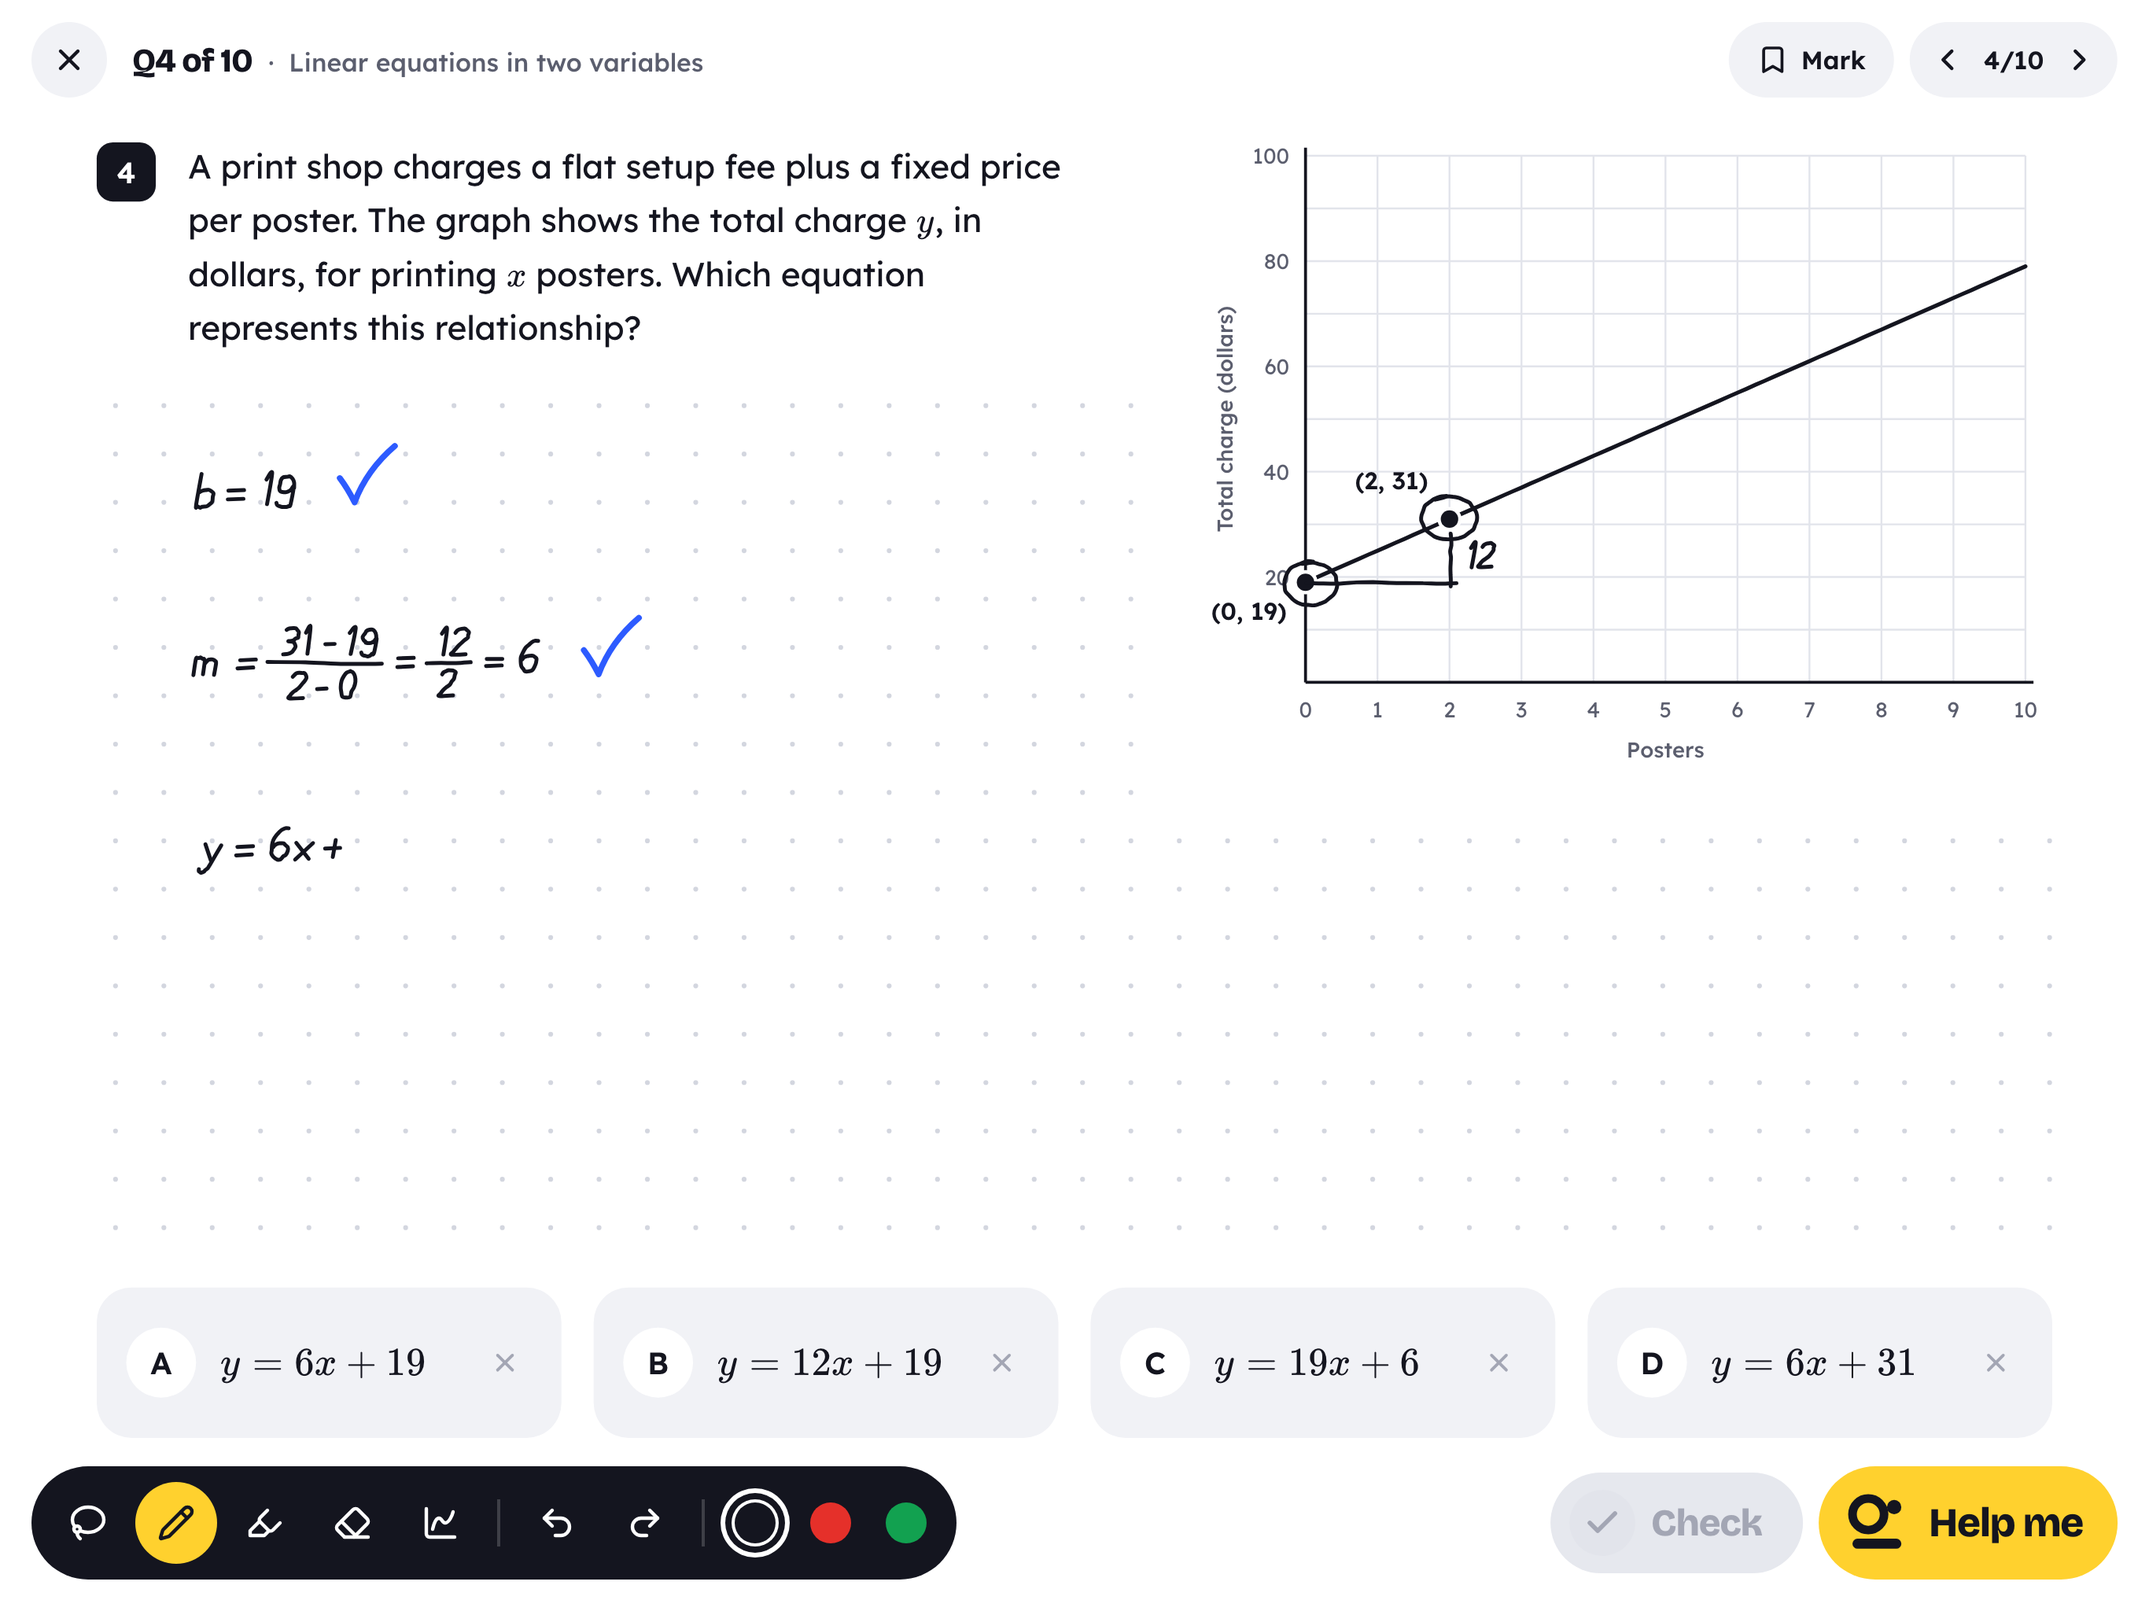
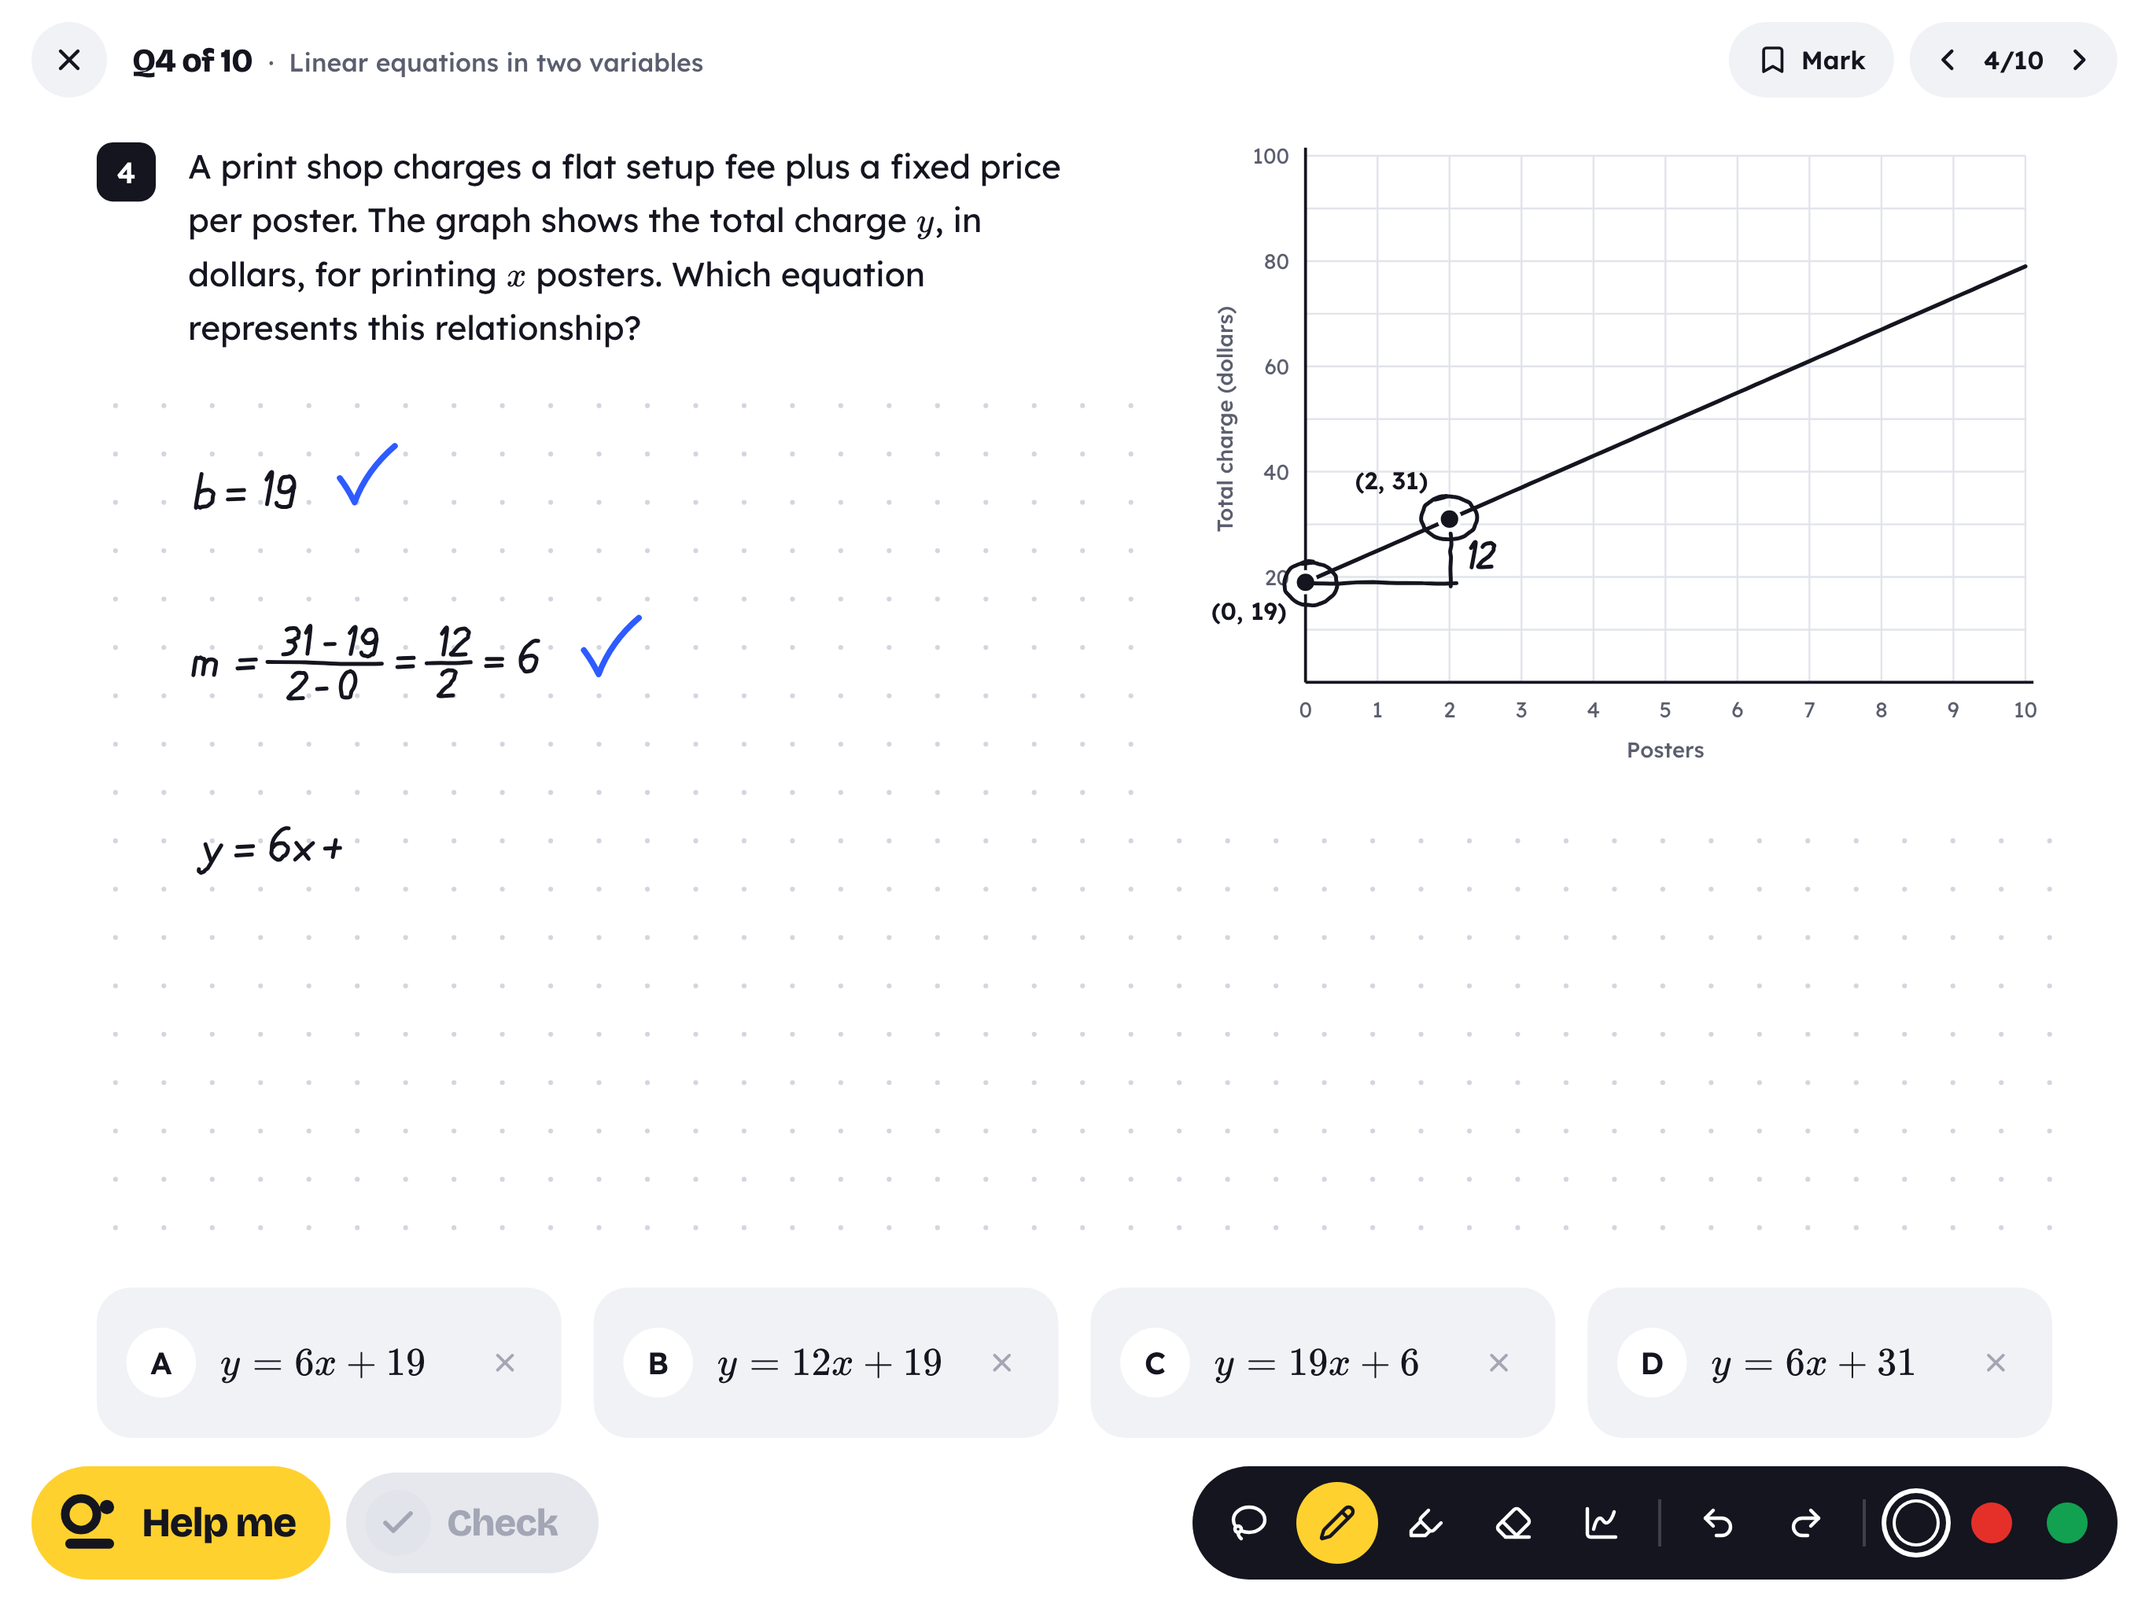
docs(sat2): Help me and Check at the bottom left, the pen dock at the bottom right (owner)
The walk-through pill takes Check's place beside Help me; the capped one-time ladder card
is now a wide strip just above Help me. DESIGN-NOTES.md updated.

Changed region(s): [[0.5289, 0.9062, 0.9956, 1.0], [0.0, 0.9062, 0.4667, 1.0]]

diff --git a/docs/sat2/mockups.html b/docs/sat2/mockups.html
@@ -382,15 +382,18 @@ function topBar({ q = 4, n = 10, skill = "Linear equations in two variables", ma
       w - 20, 14, "transform:translateX(-100%);display:flex;gap:10px;align-items:center");
 }
 function dock({ w = 1366, h = 1024, rung = 0, check = "off", walk = null, tool = "pencil" } = {}) {
+  // Bottom row (owner, 2026-10-23): Help me then Check (or the walk-through pill) at the bottom
+  // LEFT, the pen dock at the bottom RIGHT, nothing in between.
   const t = (n) => `<div class="tool ${tool === n ? "on" : ""}">${icon(n, 24, 2.2)}</div>`;
-  put(`<div class="dock">${t("lasso")}${t("pencil")}${t("highlighter")}${t("eraser")}${t("chart-spline")}<div class="sep"></div>
+  const pens = `<div class="dock">${t("lasso")}${t("pencil")}${t("highlighter")}${t("eraser")}${t("chart-spline")}<div class="sep"></div>
        <div class="tool">${icon("undo-2", 24, 2.2)}</div><div class="tool">${icon("redo-2", 24, 2.2)}</div><div class="sep"></div>
-       <div class="sw on"><i style="background:#14151F;box-shadow:0 0 0 2px #fff"></i></div><div class="sw"><i style="background:#E5302A"></i></div><div class="sw"><i style="background:#12A150"></i></div></div>`, 20, h - 20 - 72);
+       <div class="sw on"><i style="background:#14151F;box-shadow:0 0 0 2px #fff"></i></div><div class="sw"><i style="background:#E5302A"></i></div><div class="sw"><i style="background:#12A150"></i></div></div>`;
   const pips = [1, 2, 3].map((i) => `<i class="${i <= rung ? "on" : ""}"></i>`).join("");
-  const right = walk ? `<div class="walk"><span class="pp">${[1, 2, 3].map((i) => `<i class="${i <= walk ? "on" : ""}"></i>`).join("")}</span>Step ${walk} of 3 · Tap to go on${icon("arrow-right", 22, 2.4)}</div>`
+  const mid = walk ? `<div class="walk"><span class="pp">${[1, 2, 3].map((i) => `<i class="${i <= walk ? "on" : ""}"></i>`).join("")}</span>Step ${walk} of 3 · Tap to go on${icon("arrow-right", 22, 2.4)}</div>`
     : `<div class="check ${check === "off" ? "off" : ""}"><span class="bd">${icon("check", 24, 2.8)}</span>Check</div>`;
-  put(`${right}<div class="helpme"><svg width="42" height="42" viewBox="0 0 46 46"><circle cx="17" cy="17" r="11" fill="none" stroke="#14151F" stroke-width="6"/><circle cx="35" cy="12" r="5" fill="#14151F"/><rect x="6" y="34" width="34" height="7" rx="3.5" fill="#14151F"/></svg><span style="display:flex;flex-direction:column;gap:5px"><span class="t">Help me</span>${rung ? `<span class="pips">${pips}</span>` : ""}</span></div>`,
-      w - 20, h - 20 - 72, "transform:translateX(-100%);display:flex;gap:10px;align-items:center");
+  const help = `<div class="helpme"><svg width="42" height="42" viewBox="0 0 46 46"><circle cx="17" cy="17" r="11" fill="none" stroke="#14151F" stroke-width="6"/><circle cx="35" cy="12" r="5" fill="#14151F"/><rect x="6" y="34" width="34" height="7" rx="3.5" fill="#14151F"/></svg><span style="display:flex;flex-direction:column;gap:5px"><span class="t">Help me</span>${rung ? `<span class="pips">${pips}</span>` : ""}</span></div>`;
+  put(`${help}${mid}`, 20, h - 20 - 72, "display:flex;gap:10px;align-items:center");
+  put(pens, w - 20, h - 20 - 72, "transform:translateX(-100%)");
 }
 
 // ============================================================== frames
@@ -405,7 +408,7 @@ function plotMarks({ circle19 = true, circle31 = true, triangle = true, labels =
 }
 
 const FRAMES = {
-  f01: { name: "question", title: "1 · The question is the page", cap: "Full-screen board. The stem and figure are printed at the top like a test sheet (number hanging in the margin), dotted paper below is the work area, and the answer cards sit at the bottom of the page. Slim top bar; the dock keeps the tools, with Check and Help me.",
+  f01: { name: "question", title: "1 · The question is the page", cap: "Full-screen board. The stem and figure are printed at the top like a test sheet (number hanging in the margin), dotted paper below is the work area, and the answer cards sit at the bottom of the page. Slim top bar. Help me and Check sit bottom left, the pen dock bottom right, nothing in between.",
     draw() { questionPage(Q_PLOT); flushInk(); topBar(); dock(); } },
   f02: { name: "working", title: "2 · Mid-work: writing on the figure", cap: "The student circles the two labeled points and sketches the rise and the run on the graph, then works down the page in a thin pencil. The tutor ticks the true lines. The unfinished line is not judged.",
     draw() { questionPage(Q_PLOT); plotMarks();
@@ -424,7 +427,7 @@ const FRAMES = {
       const t = tut("t_mfrac", STEM_X + 4, rowY(1) + 10);
       putP(`Your turn: the next line.`, t.right + 40, rowY(1) - 12, "z-index:6").className = "turn";
       flushInk(); topBar(); dock({ rung: 2 }); } },
-  f05: { name: "rung3", title: "5 · Rung 3: walk me through it", cap: "The full solution drawn step by step in cobalt, on the work area and on the figure itself (the rise and the run on the graph). It pauses after each step: step 2 of 3, tap to go on. Step 3 waits in pale cobalt.",
+  f05: { name: "rung3", title: "5 · Rung 3: walk me through it", cap: "The full solution drawn step by step in cobalt, on the work area and on the figure itself (the rise and the run on the graph). It pauses after each step: step 2 of 3, tap to go on (the pill takes Check's place, next to Help me). Step 3 waits in pale cobalt.",
     draw() { questionPage(Q_PLOT); plotMarks({ circle31: false, triangle: false, labels: false });
       plotMarks({ circle19: false, circle31: true, pen: TUT });
       const c1 = putP(`<b>1</b>The setup fee is the y-intercept.`, STEM_X, L.workTop + 4, "z-index:6"); c1.className = "tcap";
@@ -477,7 +480,7 @@ const FRAMES = {
       loop(f[0], f[1], 34, 22, 31); loop(t[0], t[1] + 1, 42, 23, 33);
       const l1 = stu("s_prob", STEM_X + 8, L.workTop + 120); tickMark(l1.right + 34, L.workTop + 112);
       flushInk(); topBar({ q: 9, skill: "Probability" }); dock(); } },
-  f10: { name: "capped", title: "10 · No tutor pass today", cap: "The free tutor is used up: no ticks, no reading, no live checks, said once in a quiet line. Help me still climbs the same ladder from the bank: the nudge, the next solution step written in the same cobalt hand, and the walk-through. Shown with the one-time ladder card.",
+  f10: { name: "capped", title: "10 · No tutor pass today", cap: "The free tutor is used up: no ticks, no reading, no live checks, said once in a quiet line. Help me still climbs the same ladder from the bank: the nudge, the next solution step written in the same cobalt hand, and the walk-through. Shown with the one-time ladder card, just above Help me.",
     draw() { questionPage(Q_PLOT); plotMarks({ circle31: true, triangle: false, labels: false });
       stu("s_b19", STEM_X + 6, rowY(0));
       const t = tut("t_mfrac", STEM_X + 4, rowY(1) + 10);
@@ -486,11 +489,12 @@ const FRAMES = {
       topBar({ extra: `<div class="quiet"><span class="d"></span>Tutor checks used up today: 20 of 20. Help me still works.</div>` });
       dock({ rung: 2 });
       const rows = [["Nudge", "A question to get you going.", "Free"], ["One step", "The next line of the solution.", "From the solution today"], ["Walk me through it", "The whole solution, step by step.", "Free"]];
-      put(`<div class="lbl" style="margin-bottom:14px">Help me, three taps</div>${rows.map((r, i) => `<div style="display:grid;grid-template-columns:30px 1fr;gap:12px;align-items:start;margin-top:${i ? 14 : 0}px">
-            <span style="width:30px;height:30px;border-radius:50%;${i < 2 ? "background:var(--ink);color:#fff" : "box-shadow:inset 0 0 0 2px var(--ink)"};display:grid;place-items:center;font-size:14px;font-weight:600">${i + 1}</span>
-            <div><div style="font-weight:600;font-size:17px">${r[0]} <span style="font-weight:400;color:var(--ink2);font-size:14px">· ${r[2]}</span></div><div class="cap" style="margin-top:2px">${r[1]}</div></div></div>`).join("")}
-          <div class="cap" style="margin-top:16px;color:var(--ink)">The board, Graph it and the answer check all still work.</div>`,
-        1346, L.offY + L.rowTop * L.k - 20, "transform:translate(-100%,-100%);width:380px;background:var(--ink);color:#fff;border-radius:28px;padding:24px").querySelectorAll(".cap,.lbl").forEach((e) => (e.style.color = "#BDBDC0"));
+      const card = put(`<div class="lbl" style="margin-bottom:14px">Help me, three taps</div><div style="display:grid;grid-template-columns:repeat(3,1fr);gap:22px">${rows.map((r, i) => `<div style="display:grid;grid-template-columns:30px 1fr;gap:12px;align-items:start">
+            <span style="width:30px;height:30px;border-radius:50%;${i < 2 ? "background:#fff;color:var(--ink)" : "box-shadow:inset 0 0 0 2px #fff"};display:grid;place-items:center;font-size:14px;font-weight:600">${i + 1}</span>
+            <div><div style="font-weight:600;font-size:17px">${r[0]}</div><div class="cap" style="margin-top:2px">${r[2]}. ${r[1]}</div></div></div>`).join("")}</div>
+          <div class="cap" style="margin-top:16px">The board, Graph it and the answer check all still work.</div>`,
+        20, L.offY + L.rowTop * L.k - 20, "transform:translateY(-100%);width:760px;background:var(--ink);color:#fff;border-radius:28px 28px 28px 6px;padding:22px 26px");
+      card.querySelectorAll(".cap,.lbl").forEach((e) => (e.style.color = "#BDBDC0"));
     } },
   f11: { name: "summary", title: "11 · End of the set", cap: "The score, each question as a dot (right) or a ring (missed), and the missed ones going into the mistake deck: back in 1 day, then 3 days. Practice 10 more starts with whatever is due.",
     draw() { screen("land", "var(--ground)");

diff --git a/docs/sat2/DESIGN-NOTES.md b/docs/sat2/DESIGN-NOTES.md
@@ -141,7 +141,7 @@ All in page units, relative to the student's ink, so it travels with the page.
   text in Lexend Medium 19 cobalt) and the step's math in the tutor's hand 92 below the caption (116
   for a fraction line); steps are ~150 apart. A step that is about the figure is also drawn ON the
   figure (the rise and the run as cobalt legs, their sizes as cobalt labels). The next step's caption
-  waits in `faint` with a `tutorInkEmpty` badge. The dock's Check is replaced by a cobalt 64 pt pill:
+  waits in `faint` with a `tutorInkEmpty` badge. Check (next to Help me, bottom left) is replaced by a cobalt 64 pt pill:
   three 22 × 6 step bars (white = shown, `cobaltDeep` = waiting) + "Step 2 of 3 · Tap to go on" + →.
   A tap anywhere on the board goes on; the last step turns the pill back into Check. If the student
   already has ink in the stem column, the walk-through starts under their last line instead.
@@ -157,8 +157,9 @@ All in page units, relative to the student's ink, so it travels with the page.
   top bar, left of Mark: a 10 pt `inkSecondary` ring dot + "Tutor checks used up today: 20 of 20.
   Help me still works." (Lexend 15, on chalk, 40 tall), with the caller's own cap. Help me climbs the
   same three rungs from the bank (rung 2 writes the bank's next step in the same cobalt hand). The
-  first time it happens, an ink card above the answer row (bottom-right, 380 wide, radius 28) lays
-  the ladder out once; it goes on the next tap.
+  first time it happens, an ink card lays the ladder out once, the three rungs side by side: 760 pt
+  wide, at x 20, its bottom 20 above the answer row, radius 28 with the bottom-left corner 6 (toward
+  Help me, right below it). It goes on the next tap.
 - **The solution, two ways** (frame 7): a sheet from y 504 pt to the bottom, `ground`, radius 32
   at the top; the question and figure stay in view above it. Header: a 44 `success` circle with a
   check, "A is right." (Bricolage ExtraBold 24) and the answer in math; "Back to my work" (paper) and
@@ -176,13 +177,15 @@ All in page units, relative to the student's ink, so it travels with the page.
   at x 84; on the right, Mark (48 pill, bookmark icon, Lexend SemiBold 16) and ‹ 4/10 › (48 pill,
   36 chevrons), 10 apart, 20 from the edge. The skill name is the bank's, sentence case. The
   status bar is hidden during a set.
-- **Dock** (72 tall, ink, at (20, bottom − 92)): lasso, pencil (active = sunny), highlighter, eraser,
-  Graph it | undo, redo | three pens (ink, red, green; 44 targets, 26 dots). No page arrows (the top
-  bar has them).
+- **Bottom row** (owner, 2026-10-23): **Help me, then Check, at the bottom LEFT** (from x 20, 10
+  apart); **the pen dock at the bottom RIGHT** (its right edge 20 from the screen's); nothing in
+  between. All three sit 20 above the bottom edge, in the dock lane.
+- **Dock** (72 tall, ink): lasso, pencil (active = sunny), highlighter, eraser, Graph it | undo,
+  redo | three pens (ink, red, green; 44 targets, 26 dots). No page arrows (the top bar has them).
 - **Check** 64 pt ink pill (a 42 `onInkFaint` badge with a check, Bricolage ExtraBold 24); off until a
   choice or an answer exists: `guide` fill, `faint` text, `line` badge. **Help me** 72 pt sunny, the
-  mark in ink, Bricolage ExtraBold 26, always the biggest thing on the board. Both 20 from the right,
-  10 apart.
+  mark in ink, Bricolage ExtraBold 26, always the biggest thing on the board. Help me is first from
+  the left, Check right after it.
 
 ## Type (all Blocks styles)
 
